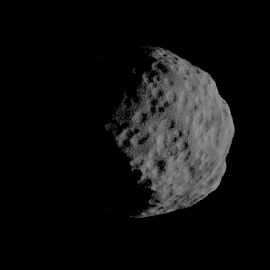
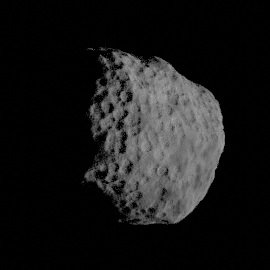
reordered test images

Changed region(s): [[0.2963, 0.1481, 0.8889, 0.8296]]

diff --git a/estimate.m b/estimate.m
@@ -20,14 +20,14 @@ addpath(genpath('estimator'))
 % true_yaw = 73;
 
 % reference_image = 'simulated_data/test_image4.png';
-% true_roll = 60;
-% true_pitch = 77;
-% true_yaw = 290;
+% true_roll = 160;
+% true_pitch = -45;
+% true_yaw = 240;
 
 reference_image = 'simulated_data/test_image5.png';
-true_roll = 160;
-true_pitch = -45;
-true_yaw = 240;
+true_roll = 60;
+true_pitch = 77;
+true_yaw = 290;
 
 %% Settings:
 distance_to_hyperion = 1000;
